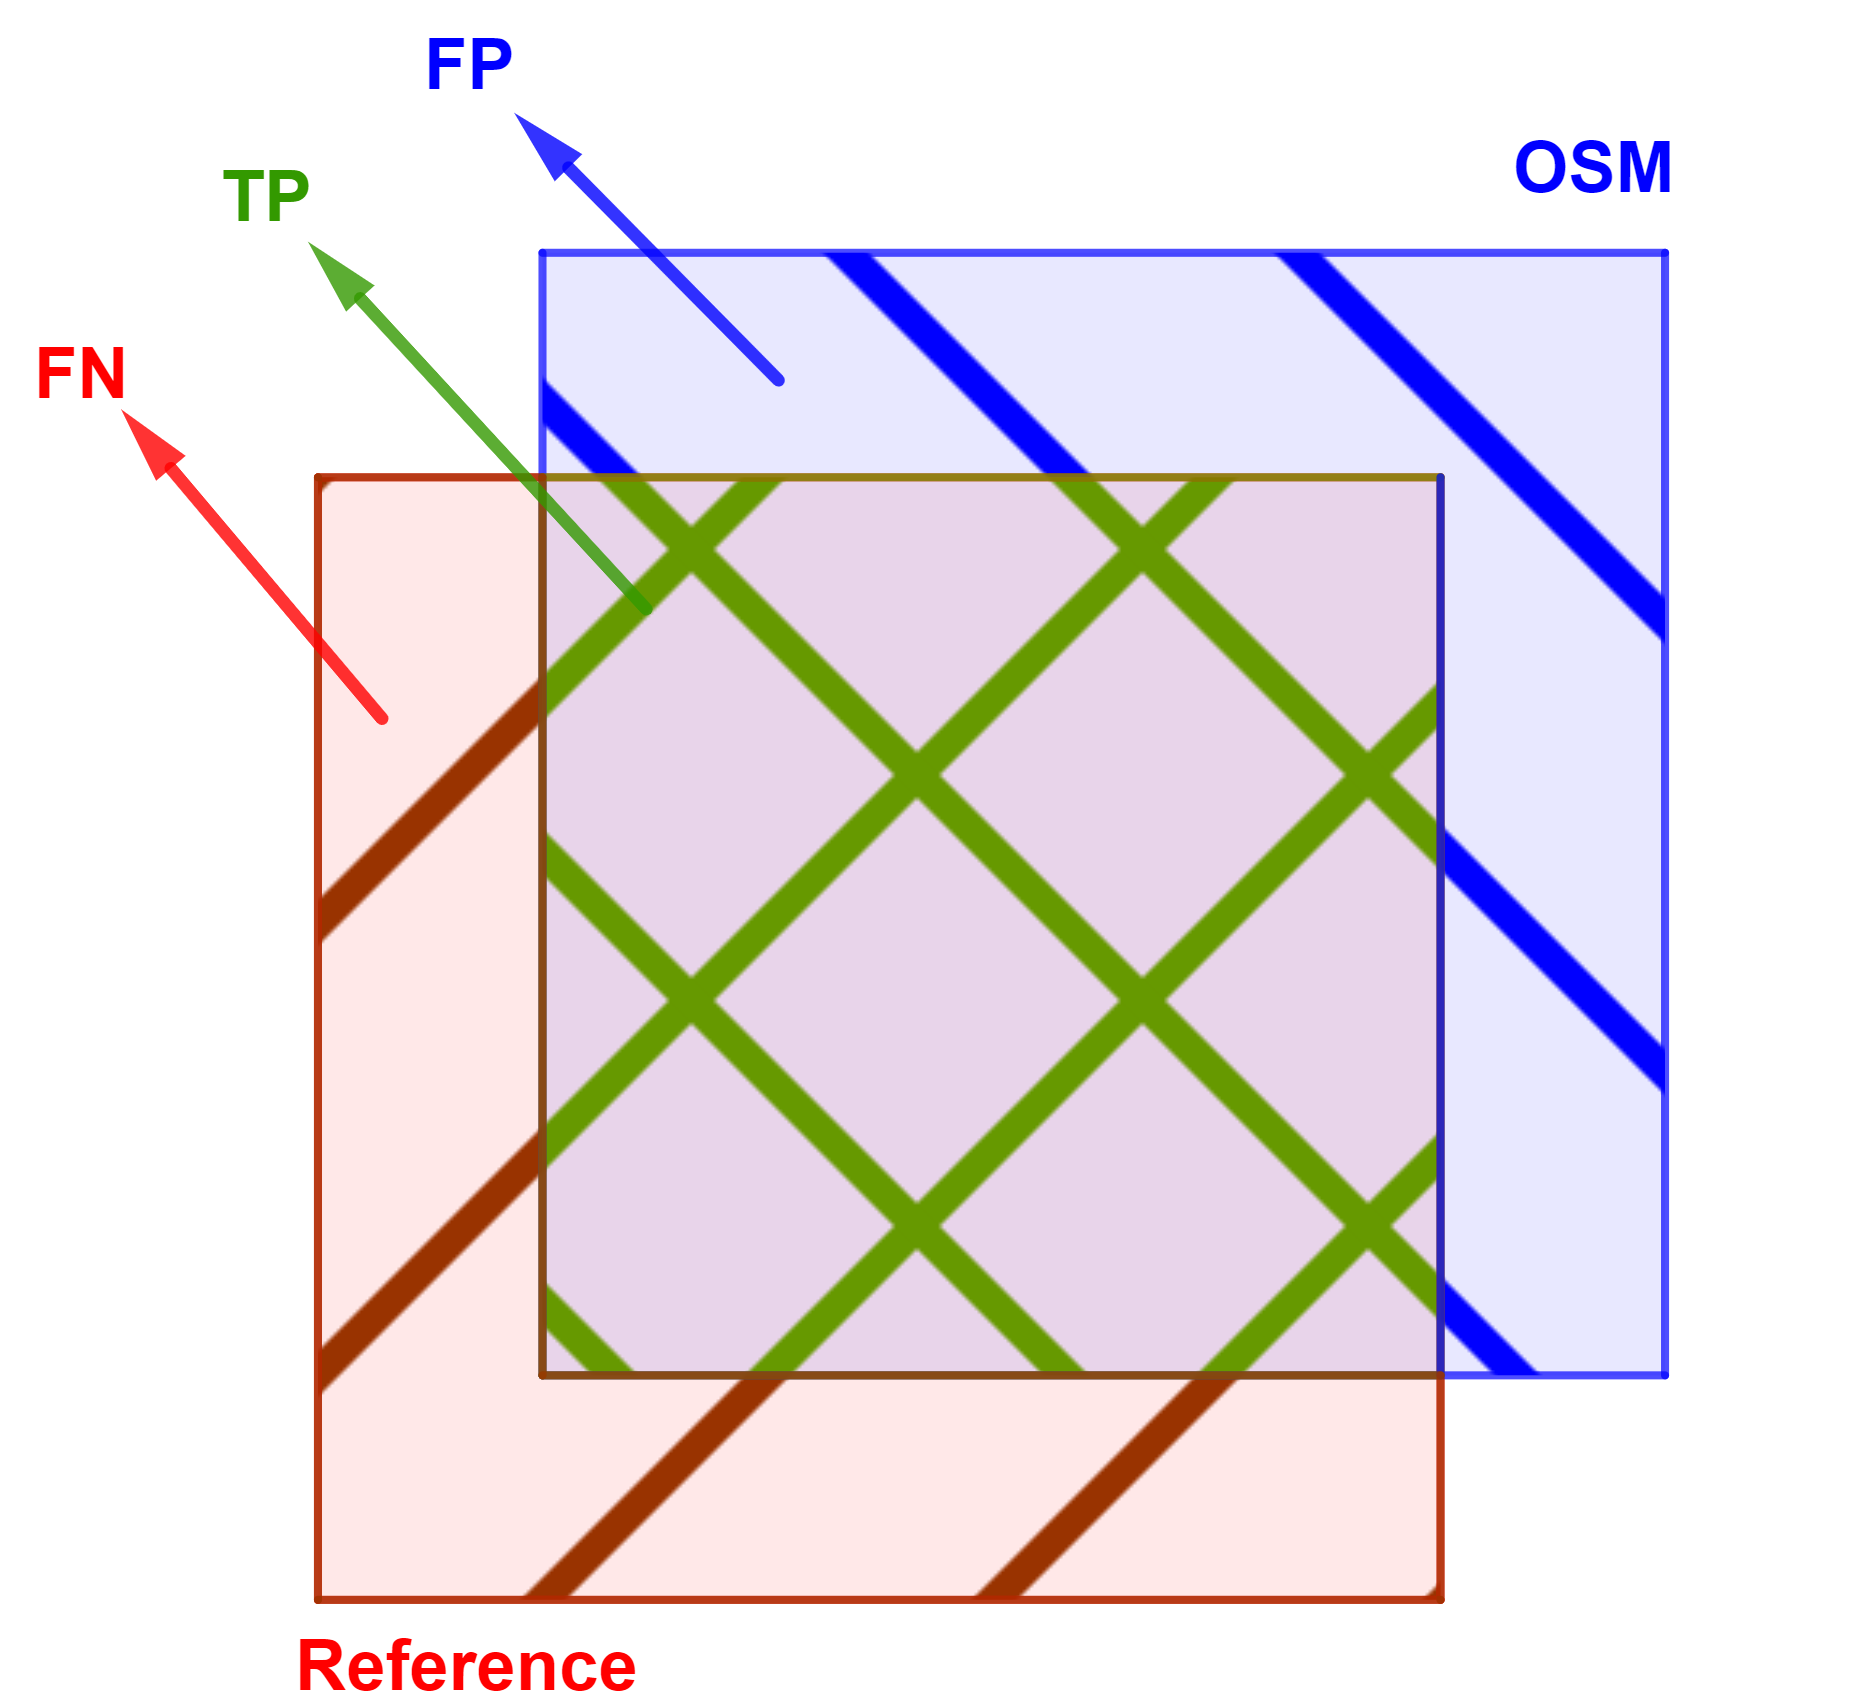
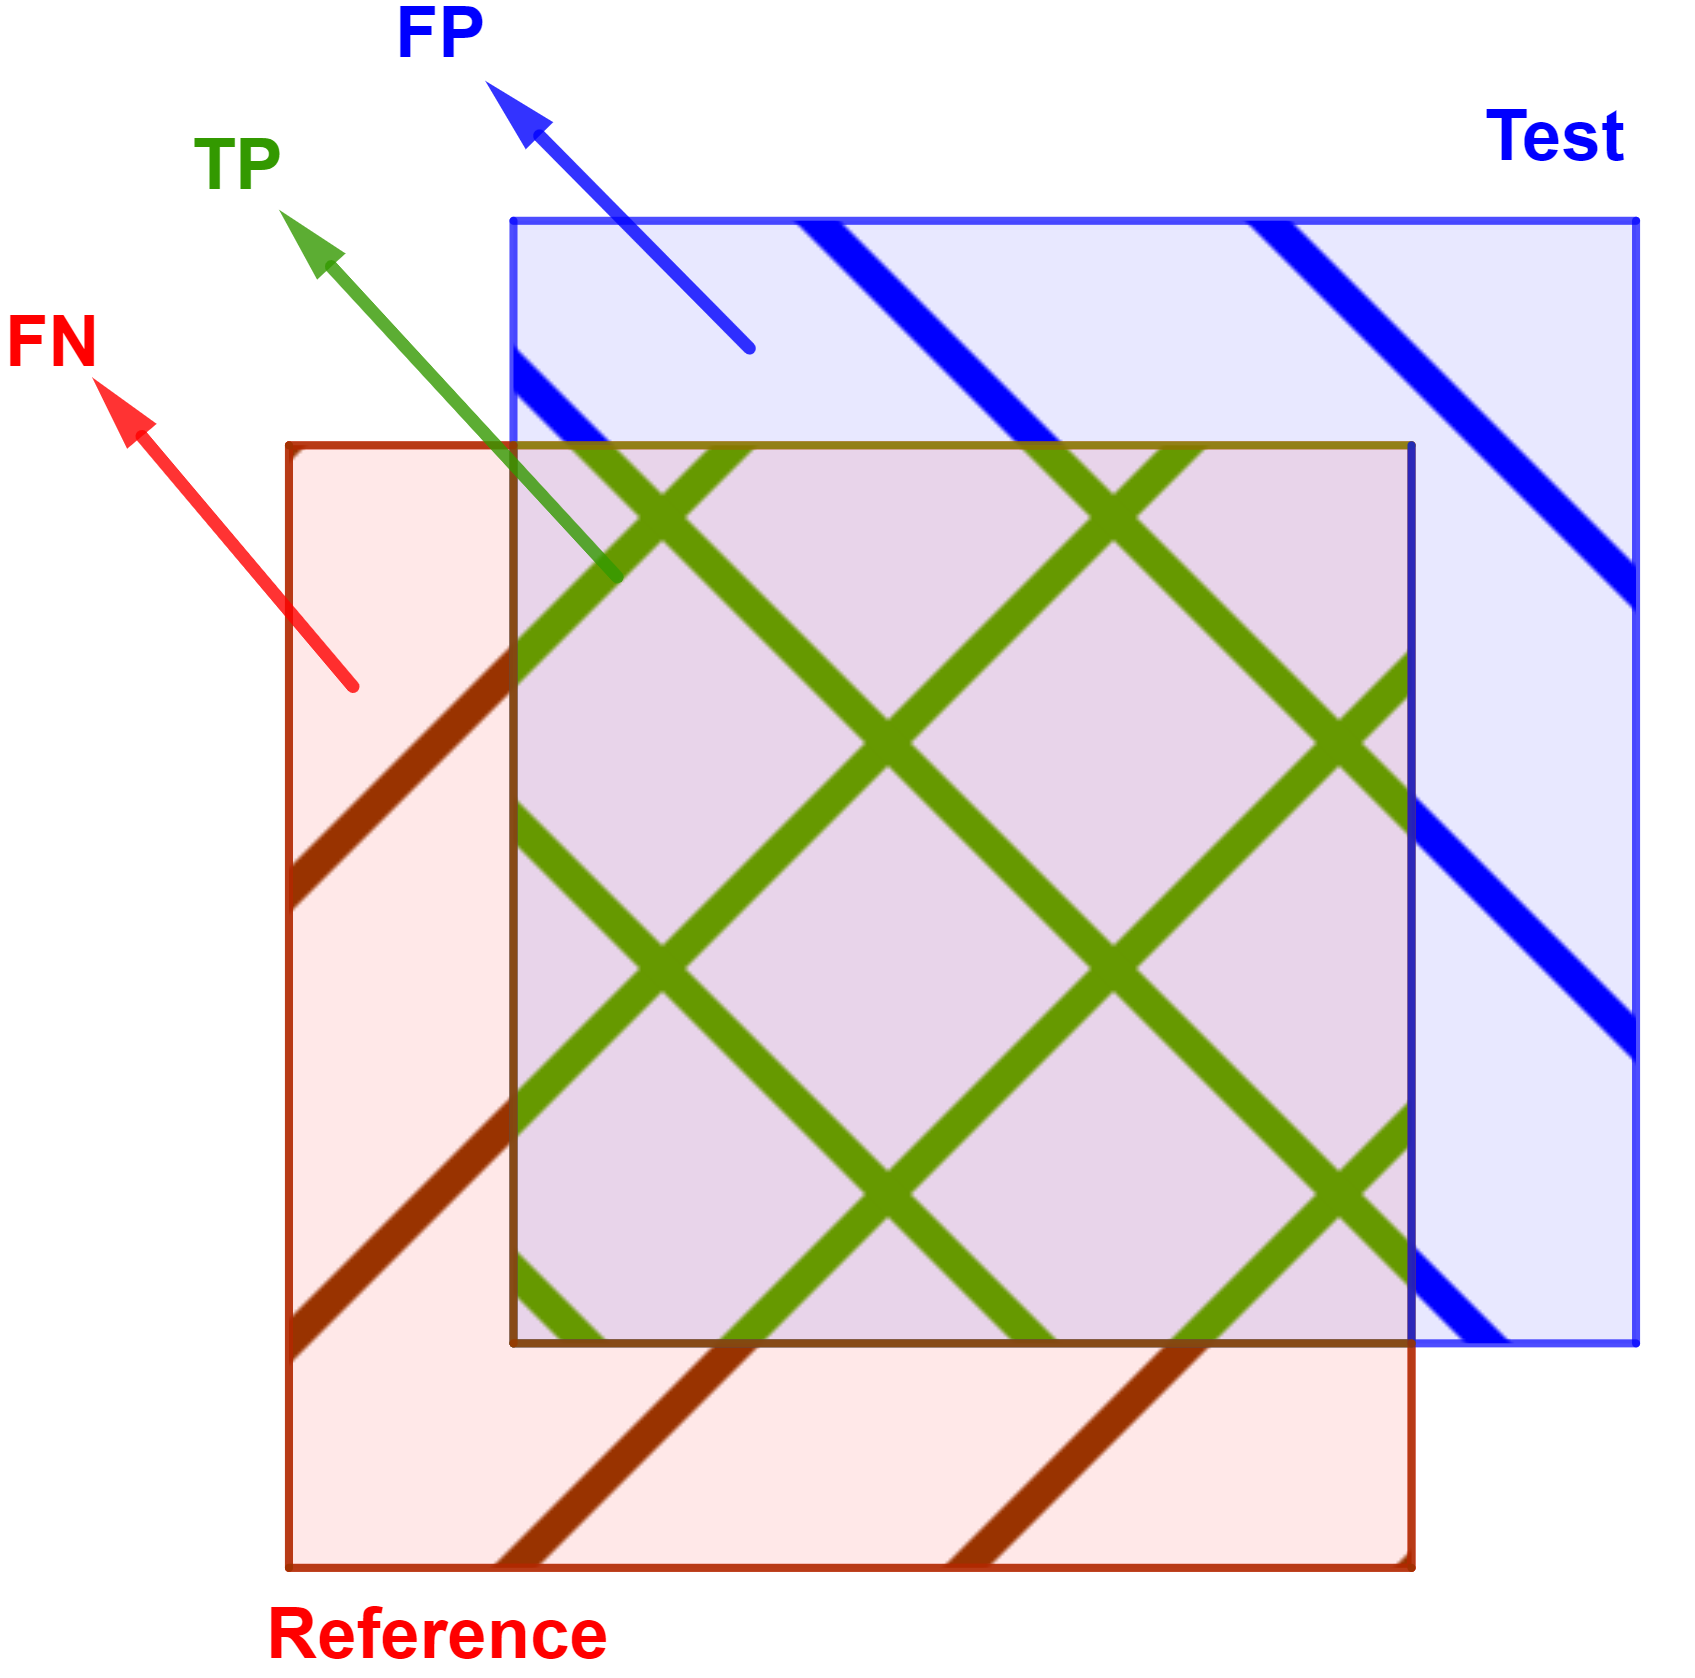
update img

diff --git a/x2polygons/geometry.py b/x2polygons/geometry.py
@@ -39,7 +39,7 @@ class line_vector:
     
     Methods:
         - **point_on_where** (*px*): Identifies the orientation of the point px with respect to the vector. Returns 'LEFT', 'RIGHT' or 'COLINEAR'.
-        - ** length()**: Returns the length of the vector
+        - ** length**(): Returns the length of the vector
         - **angle_to_vector** (*vx*): Returns the degree between the self vector and the query vector vx.
     
    
@@ -86,13 +86,13 @@ class line_vector:
         return degree
     
 
-def x2_areas(polygon_ref, polygon_osm):
+def x2_areas(polygon_test, polygon_ref):
     '''
-    Identifies the intersecting area of two input (geopandas) polygons (True Positive, TP), False-Positive (FP, area belonging to OSM but not reference) and False-Negative (FN, area belonging to reference polygon but not OSM). The function operates only on 1-1 matching polygons.
+    Identifies the intersecting area of two input (geopandas) polygons (True Positive, TP), False-Positive (FP, area belonging to test (e.g. OSM) but not reference) and False-Negative (FN, area belonging to reference polygon but not test). The function operates only on 1-1 matching polygons.
     
     Args:
+        - **polygon_test** (*polygon*): Test (e.g. OSM) polygon
         - **polygon_ref** (*polygon*): Reference polygon 
-        - **polygon_osm** (*polygon*): OSM (or any other VGI source) polygon
             
     Returns:
         - **result** (*dict*): Dictionary reporting the three metrics: TP, FP, FN
@@ -105,8 +105,8 @@ def x2_areas(polygon_ref, polygon_osm):
     
     result = {}
     
-    result["TP"] = polygon_ref.intersection(polygon_osm).area
-    result["FP"] = polygon_osm.area - result["TP"]
+    result["TP"] = polygon_ref.intersection(polygon_test).area
+    result["FP"] = polygon_test.area - result["TP"]
     result["FN"] = polygon_ref.area - result["TP"]
     
     

diff --git a/x2polygons/distance_functions.py b/x2polygons/distance_functions.py
@@ -3,7 +3,7 @@ This module contains the functions to calculate the distance between two matchin
 
 Use cases:
     The functionality presented in this module could be used to compare reference building datasets with 
-    a VGI dataset such as OSM.
+    another test dataset (e.g. OSM).
     
 Distance Functions:
     - ``Chamfer Distance`` 
@@ -20,12 +20,12 @@ from shapely.geometry import Polygon, Point
 import geopandas as gp
 
 # When packaging & developing:
-# from . import plot as plt
-# from . import geometry as geom
+from . import plot as plt
+from . import geometry as geom
 
 # When creating the documentation
-import plot as plt
-import geometry as geom
+# import plot as plt
+# import geometry as geom
 
 
 
@@ -126,7 +126,7 @@ def hausdorff_distance(polygon_a, polygon_b, **kwargs):
     if('symmetrise' not in kwargs):
         return h_a_b
     elif(kwargs['symmetrise'] == 'min'):
-        return min(h_a_b, h_b_a) # Number of nodes may DIFFER -  OSM may have many nodes on the line - shapes are very similar but Hausdorrf distance is large - if we were optimist, then the H distance could have been zero
+        return min(h_a_b, h_b_a) # Number of nodes may DIFFER - test data (e.g. OSM) may have many nodes on the line - shapes are very similar but Hausdorrf distance is large - if we were optimist, then the H distance could have been zero
     elif(kwargs['symmetrise'] == 'max'):
         return max(h_a_b, h_b_a)
     elif(kwargs['symmetrise'] == 'average'):
